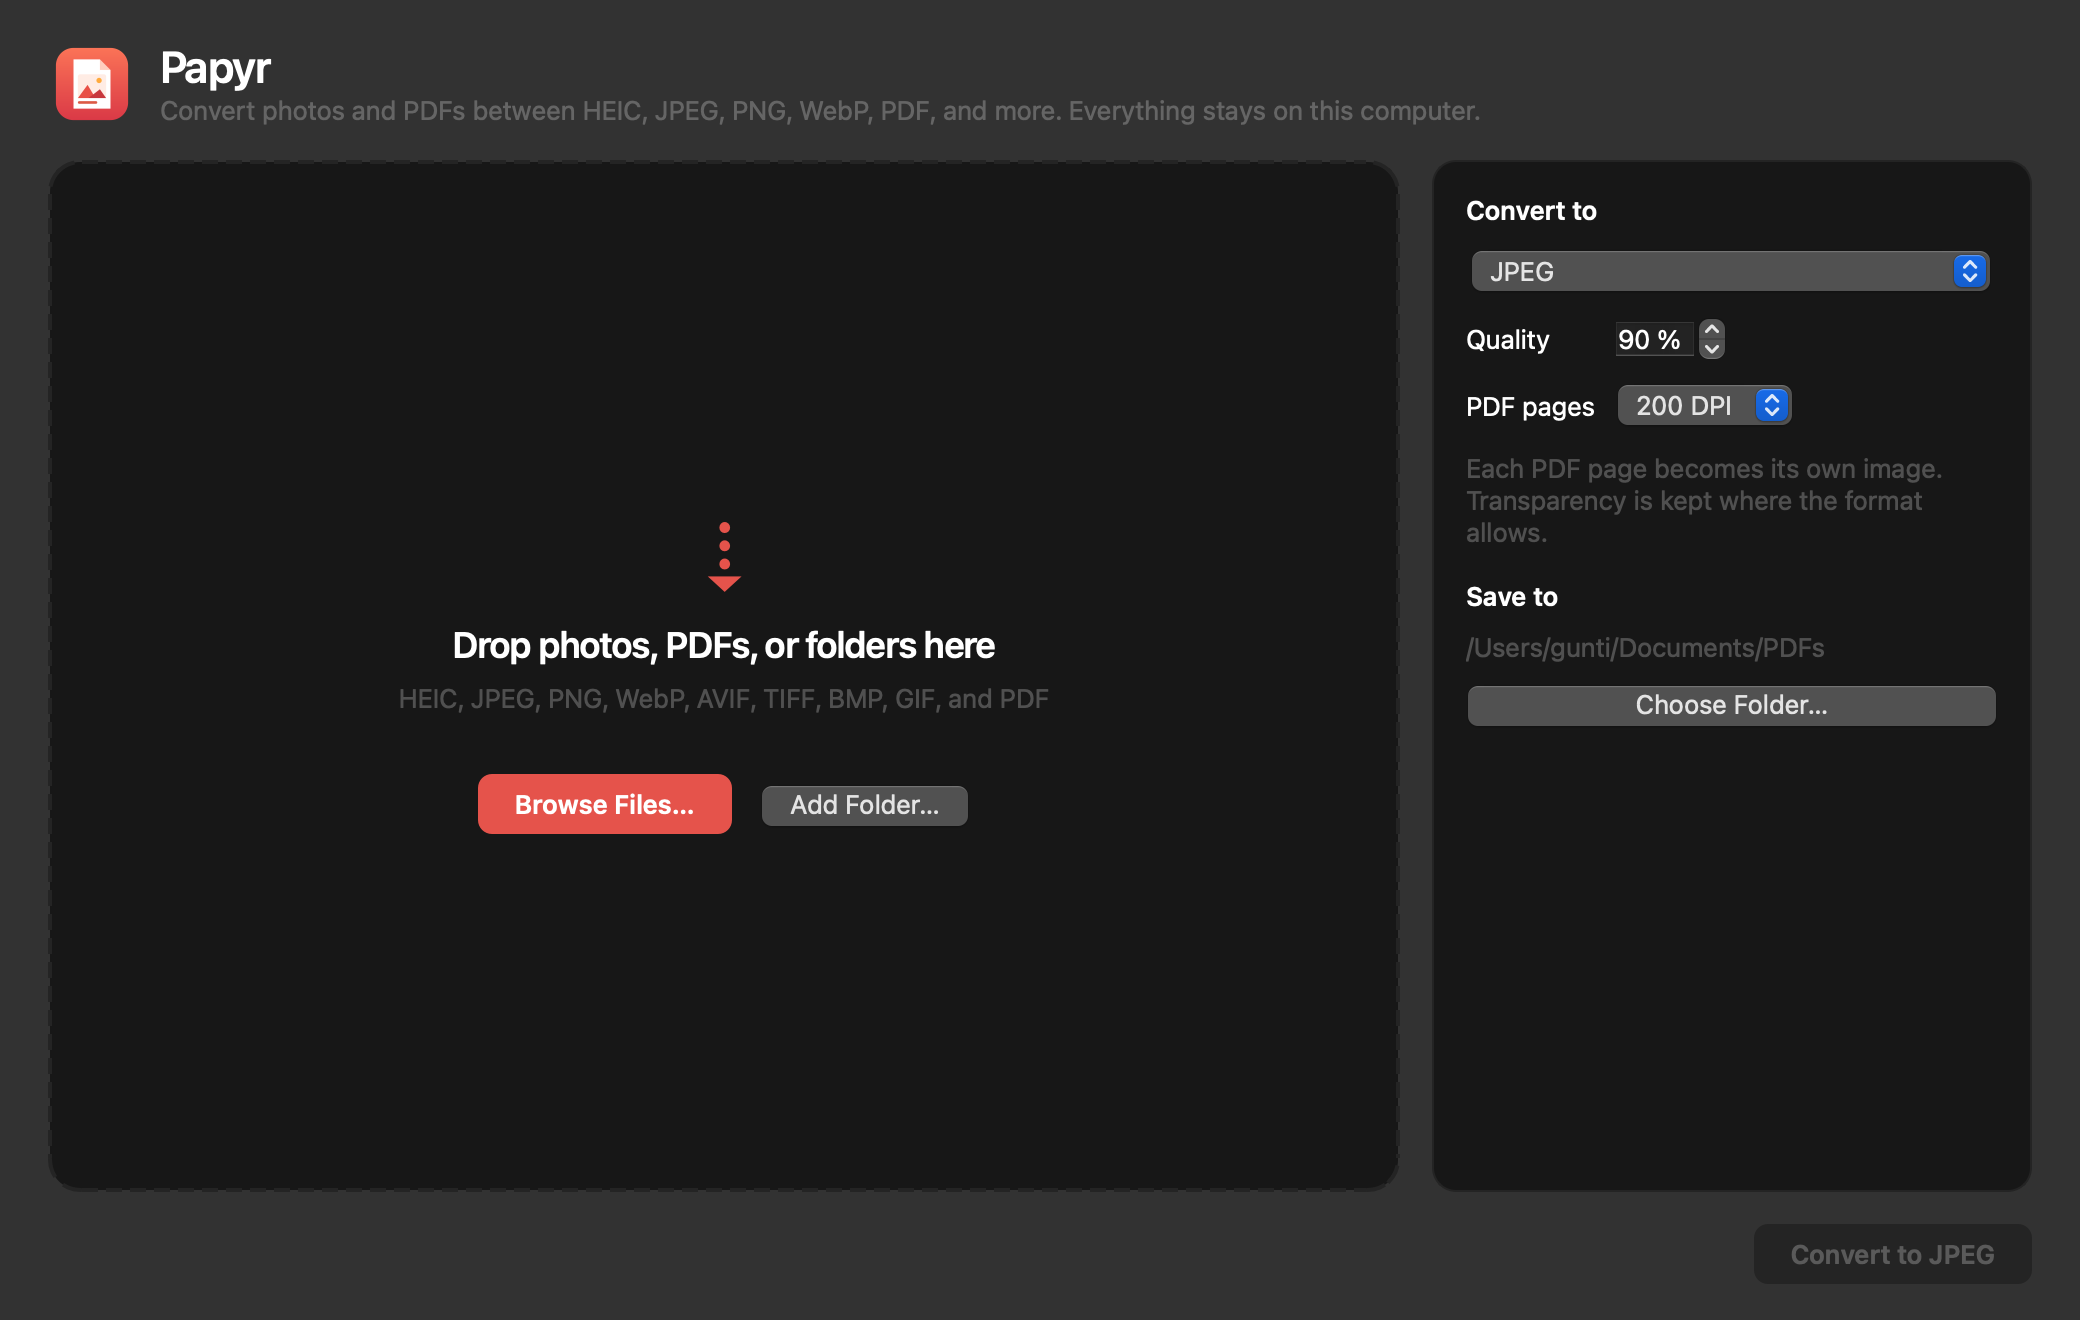
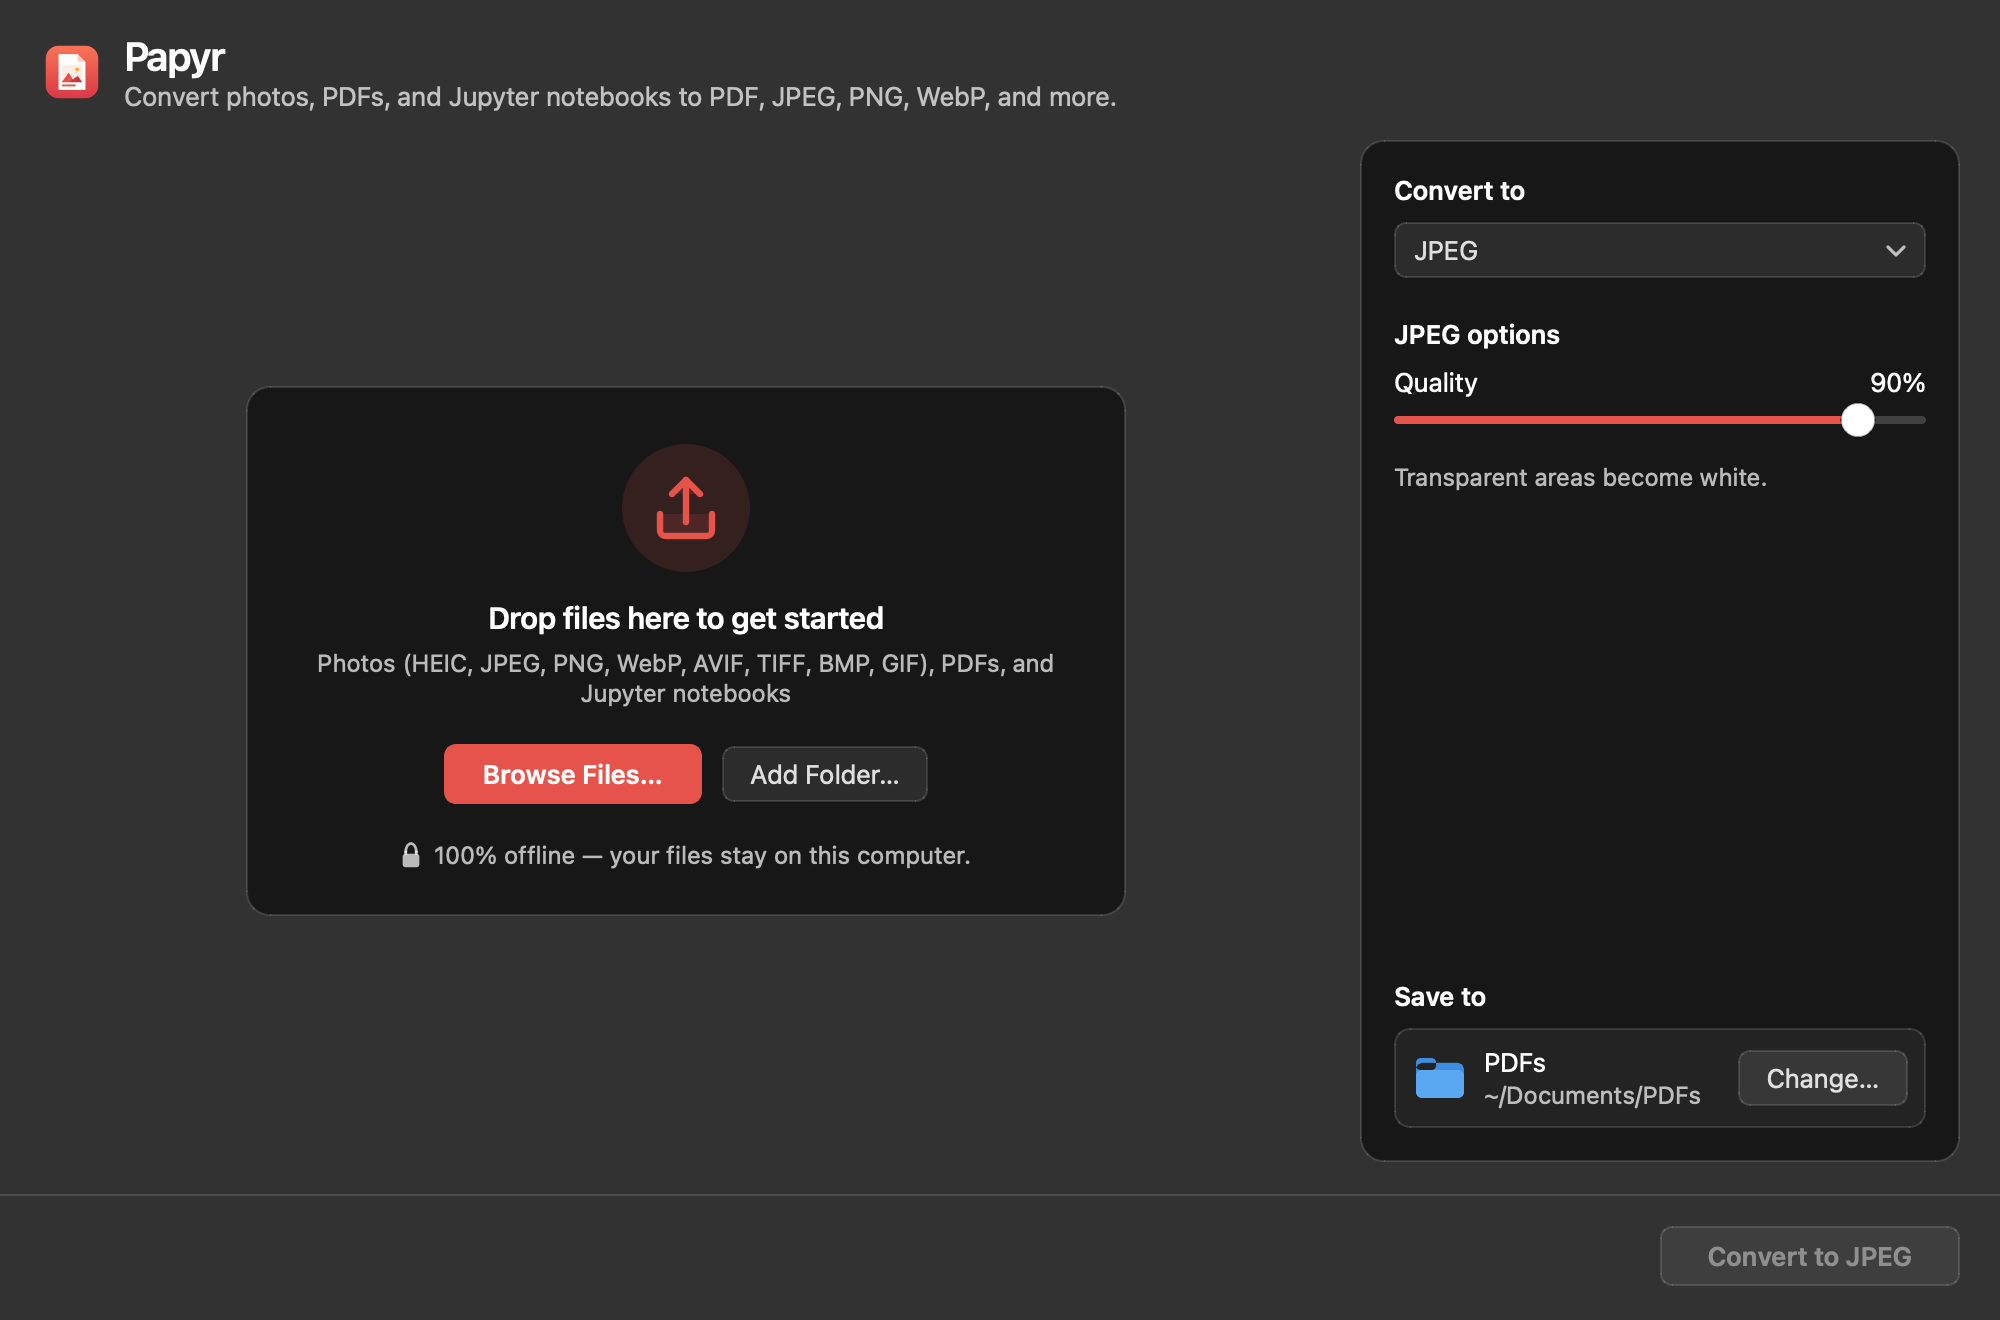
Regenerate the screenshots and save animation for the new window
scripts/screenshots.py now drives a real conversion for the "main"
images and, with --states DIR, also renders the states a reviewer should
check: a failed row, the PDF page resolution setting, a combined PDF, a
missing Save to folder, and a conversion in progress.

diff --git a/scripts/screenshots.py b/scripts/screenshots.py
@@ -1,6 +1,14 @@
-"""Render docs/screenshots/*.png from the real window with a few generated sample photos loaded."""
+"""Render docs/screenshots/{empty,main}-{light,dark}.png from the real window with generated sample photos.
+
+    python scripts/screenshots.py light|dark [--states DIR]
+
+--states also renders the window in the states a reviewer should check (a failed row, the PDF page resolution
+setting, a combined PDF, a missing Save to folder, and a conversion in progress) into DIR.
+The light and dark switch needs the native platform, so run this on a desktop session, not offscreen.
+"""
 import sys
 import tempfile
+import threading
 from pathlib import Path
 
 ROOT = Path(__file__).resolve().parent.parent
@@ -10,9 +18,18 @@ import pillow_heif
 from PIL import Image, ImageDraw
 from PySide6.QtCore import QSettings, QThreadPool, Qt
 
+from converter import ConversionReport, OutputFormat
 from gui.app import create_app
-from converter import OutputFormat
-from gui.main_window import MainWindow
+from gui.main_window import MainWindow, Run
+from gui.save_animation import SaveAnimation
+from gui.workers import ConversionWorker
+
+SPECS = [("IMG_4021.HEIC", (1600, 1200), (135, 190, 235), (70, 130, 80), (255, 210, 90)),
+         ("IMG_4022.HEIC", (1200, 1600), (250, 180, 140), (120, 80, 140), (255, 240, 200)),
+         ("IMG_4025.HEIC", (1600, 1200), (40, 50, 90), (30, 90, 110), (240, 240, 250)),
+         ("Receipt.jpg", (1200, 1600), (240, 240, 235), (200, 200, 190), (180, 180, 180)),
+         ("Whiteboard.png", (1600, 1000), (250, 250, 250), (90, 140, 220), (230, 90, 80))]
+TYPICAL_FOLDER = Path.home() / "Documents" / "PDFs"
 
 
 def isolate_settings() -> None:
@@ -31,58 +48,163 @@ def sample_photo(path: Path, size, sky, ground, sun) -> None:
     pillow_heif.from_pillow(img).save(path, quality=80)
 
 
-def main(scheme: str) -> None:
-    out = ROOT / "docs" / "screenshots"
+def sample_files(folder: Path) -> list[Path]:
+    paths = []
+    for name, *args in SPECS:
+        path = folder / name
+        sample_photo(path.with_suffix(".heic"), *args)
+        if path.suffix != ".HEIC":
+            Image.open(path.with_suffix(".heic")).save(path)
+        else:
+            path.with_suffix(".heic").rename(path)
+        paths.append(path)
+    return paths
+
+
+def sample_pdf(path: Path) -> Path:
+    page = Image.new("RGB", (850, 1100), "white")
+    draw = ImageDraw.Draw(page)
+    for y in range(120, 900, 60):
+        draw.rectangle((90, y, 760, y + 18), fill=(210, 210, 215))
+    page.save(path)
+    return path
+
+
+class Shooter:
+    def __init__(self, app, window: MainWindow):
+        self.app, self.window = app, window
+
+    def settle(self) -> None:
+        QThreadPool.globalInstance().waitForDone()
+        while self.window.findChildren(SaveAnimation):
+            self.app.processEvents()
+        for _ in range(20):
+            self.app.processEvents()
+
+    def shoot(self, path: Path, folder: Path | None = None) -> None:
+        self.settle()
+        if folder is not None:
+            self.window._panel.show_destination(folder, None)  # a folder a reader would pick, not the temp dir
+        self.app.processEvents()
+        self.window.grab().save(str(path))
+        print(path)
+
+    def convert(self) -> None:
+        self.window._convert_button.click()
+        while self.window._converting:
+            self.app.processEvents()
+        self.settle()
+
+
+def new_window(output: Path) -> MainWindow:
+    QSettings().clear()
+    window = MainWindow()
+    window.menuBar().hide()  # macOS shows the menu bar at the top of the screen, not in the window
+    window.set_output_dir(output)
+    window.show()
+    window.resize(1000, 660)
+    return window
+
+
+def choose_format(window: MainWindow, fmt: OutputFormat) -> None:
+    window._panel.format_combo.setCurrentIndex(window._panel.format_combo.findData(fmt))
+
+
+def docs(app, scheme: str, tmp: Path, out: Path) -> None:
+    window = new_window(tmp / "out")
+    shooter = Shooter(app, window)
+    if scheme == "dark":
+        choose_format(window, OutputFormat.JPEG)
+    else:
+        choose_format(window, OutputFormat.PDF)
+        window._panel.combine_check.setChecked(True)
+        window._panel.name_edit.setText("Trip Photos")
+    shooter.shoot(out / f"empty-{scheme}.png", TYPICAL_FOLDER)
+
+    window.add_paths(sample_files(tmp))
+    shooter.settle()
+    shooter.convert()
+    window._queue.item(1).setSelected(True)
+    shooter.shoot(out / f"main-{scheme}.png", TYPICAL_FOLDER)
+    window.close()
+
+
+def states(app, scheme: str, tmp: Path, out: Path) -> None:
     out.mkdir(parents=True, exist_ok=True)
+    photos = sample_files(tmp)
+
+    window = new_window(tmp / "out")
+    shooter = Shooter(app, window)
+    choose_format(window, OutputFormat.JPEG)
+    window.add_paths(photos[:3])
+    shooter.settle()
+    photos[1].unlink()
+    shooter.convert()
+    shooter.shoot(out / f"partial-failure-{scheme}.png")
+    window.close()
+
+    window = new_window(tmp / "out")
+    shooter = Shooter(app, window)
+    choose_format(window, OutputFormat.JPEG)
+    window.add_paths([photos[0], sample_pdf(tmp / "Lease agreement.pdf")])
+    shooter.shoot(out / f"pdf-to-jpeg-{scheme}.png")
+    window.close()
+
+    window = new_window(tmp / "out")
+    shooter = Shooter(app, window)
+    choose_format(window, OutputFormat.PDF)
+    window._panel.combine_check.setChecked(True)
+    window._panel.name_edit.setText("Trip Photos")
+    window.add_paths([photos[0], *photos[2:]])
+    shooter.settle()
+    shooter.convert()
+    shooter.shoot(out / f"combined-pdf-{scheme}.png")
+    window.close()
+
+    window = new_window(tmp / "out")
+    shooter = Shooter(app, window)
+    window.add_paths(photos[2:])
+    window.set_output_dir(tmp / "Exports (deleted)")
+    shooter.shoot(out / f"destination-warning-{scheme}.png")
+    window.close()
+
+    window = new_window(tmp / "out")
+    shooter = Shooter(app, window)
+    window.add_paths(photos[2:] + [photos[0]])
+    shooter.settle()
+    release = threading.Event()
+
+    sources = window._queue.paths()
+
+    def job(progress, cancelled):
+        progress(2, len(sources), sources[2])
+        release.wait(10)
+        return ConversionReport(cancelled=True)
+
+    window._start(ConversionWorker(job), Run(sources, False))
+    while not window._status.text().startswith("Converting"):
+        app.processEvents()
+    shooter.shoot(out / f"converting-{scheme}.png")
+    release.set()
+    while window._converting:
+        app.processEvents()
+    window.close()
+
+
+def main(scheme: str, states_dir: Path | None) -> None:
     isolate_settings()
     app = create_app(sys.argv[:1])
     app.styleHints().setColorScheme(Qt.ColorScheme.Dark if scheme == "dark" else Qt.ColorScheme.Light)
     with tempfile.TemporaryDirectory() as tmp:
-        specs = [("IMG_4021.HEIC", (1600, 1200), (135, 190, 235), (70, 130, 80), (255, 210, 90)),
-                 ("IMG_4022.HEIC", (1200, 1600), (250, 180, 140), (120, 80, 140), (255, 240, 200)),
-                 ("IMG_4025.HEIC", (1600, 1200), (40, 50, 90), (30, 90, 110), (240, 240, 250)),
-                 ("Receipt.jpg", (1200, 1600), (240, 240, 235), (200, 200, 190), (180, 180, 180)),
-                 ("Whiteboard.png", (1600, 1000), (250, 250, 250), (90, 140, 220), (230, 90, 80))]
-        paths = []
-        for name, *args in specs:
-            path = Path(tmp) / name
-            sample_photo(path.with_suffix(".heic"), *args)
-            if path.suffix != ".HEIC":
-                Image.open(path.with_suffix(".heic")).save(path)
-            else:
-                path.with_suffix(".heic").rename(path)
-            paths.append(path)
-
-        window = MainWindow()
-        window._output_label.setText(str(Path.home() / "Documents" / "PDFs"))
-        if scheme == "dark":
-            window._format_combo.setCurrentIndex(window._format_combo.findData(OutputFormat.JPEG))
-        else:
-            window._format_combo.setCurrentIndex(window._format_combo.findData(OutputFormat.PDF))
-            window._merged.setChecked(True)
-            window._name_edit.setText("Trip Photos")
-        window.show()
-        window.resize(1040, 660)
-        window._stack.setCurrentIndex(0)
-        app.processEvents()
-        window._list.clear()
-        window._refresh()
-        app.processEvents()
-        window.grab().save(str(out / f"empty-{scheme}.png"))
-
-        window.add_paths(paths)
-        QThreadPool.globalInstance().waitForDone()
-        for _ in range(20):
-            app.processEvents()
-        window._list.item(1).setSelected(True)
-        window._list.setFocus()
-        window._set_status("✓ Saved Trip Photos.pdf in PDFs." if scheme == "light"
-                           else "✓ Created 5 files in PDFs.", "success")
-        app.processEvents()
-        window.grab().save(str(out / f"main-{scheme}.png"))
-        window.close()
-        del window
+        (Path(tmp) / "out").mkdir()
+        docs(app, scheme, Path(tmp), ROOT / "docs" / "screenshots")
+    if states_dir is not None:
+        with tempfile.TemporaryDirectory() as tmp:
+            (Path(tmp) / "out").mkdir()
+            states(app, scheme, Path(tmp), states_dir)
 
 
 if __name__ == "__main__":
-    main(sys.argv[1] if len(sys.argv) > 1 else "light")
+    args = sys.argv[1:]
+    states_dir = Path(args[args.index("--states") + 1]) if "--states" in args else None
+    main(args[0] if args and not args[0].startswith("--") else "light", states_dir)

diff --git a/scripts/animation_gif.py b/scripts/animation_gif.py
@@ -8,11 +8,11 @@ sys.path.insert(0, str(ROOT / "src"))
 sys.path.insert(0, str(ROOT / "scripts"))
 
 from PIL import Image
-from PySide6.QtCore import QBuffer, QIODevice, QThreadPool
+from PySide6.QtCore import QBuffer, QIODevice, Qt, QThreadPool
 
 from gui.app import create_app
 from gui.main_window import MainWindow
-from screenshots import isolate_settings, sample_photo
+from screenshots import TYPICAL_FOLDER, isolate_settings, sample_photo
 
 FRAMES = 42
 
@@ -28,6 +28,7 @@ def to_pil(pixmap) -> Image.Image:
 def main() -> None:
     isolate_settings()
     app = create_app(sys.argv[:1])
+    app.styleHints().setColorScheme(Qt.ColorScheme.Light)
     with tempfile.TemporaryDirectory() as tmp:
         paths = []
         for i, colors in enumerate([((135, 190, 235), (70, 130, 80), (255, 210, 90)),
@@ -37,14 +38,16 @@ def main() -> None:
             sample_photo(path, (1600, 1200), *colors)
             paths.append(path)
         window = MainWindow()
-        window.resize(1040, 660)
+        window.menuBar().hide()
+        window.resize(1000, 660)
         window.show()
         window.add_paths(paths)
         QThreadPool.globalInstance().waitForDone()
         for _ in range(20):
             app.processEvents()
-        window._set_status("✓ Created 3 PDFs in PDFs.", "success")
-        window._open_button.show()
+        window._panel.show_destination(TYPICAL_FOLDER, None)
+        window._set_status("✓ 3 files converted successfully", "success")
+        window._reveal_button.show()
         app.processEvents()
 
         animation = window._play_save_animation(3)
